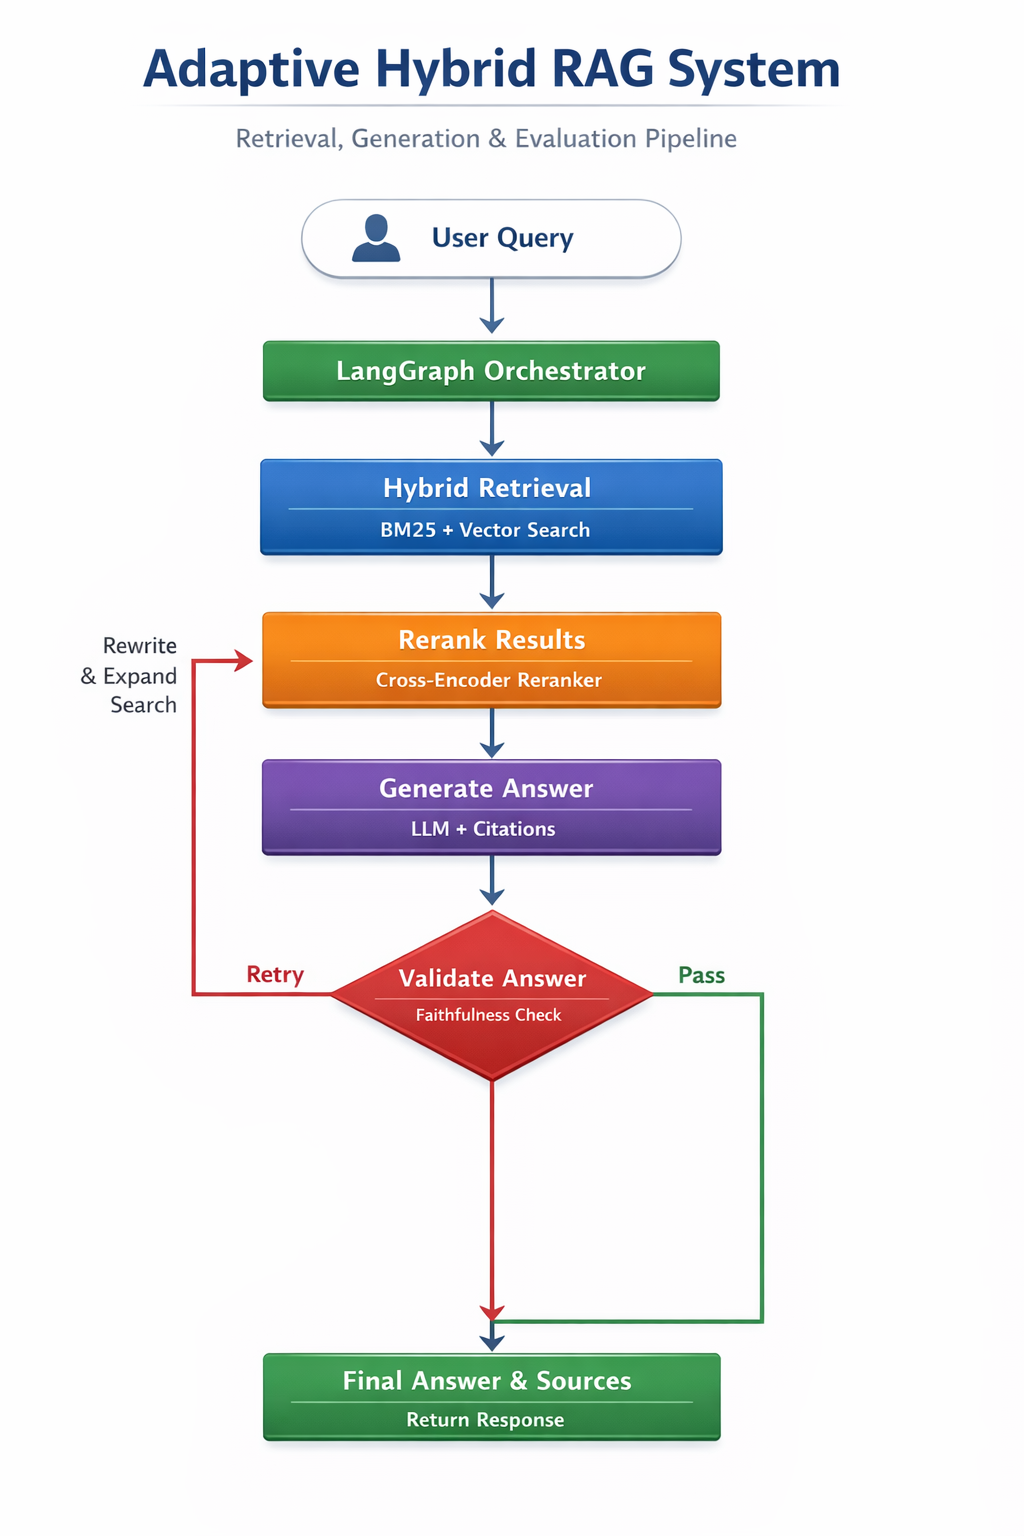
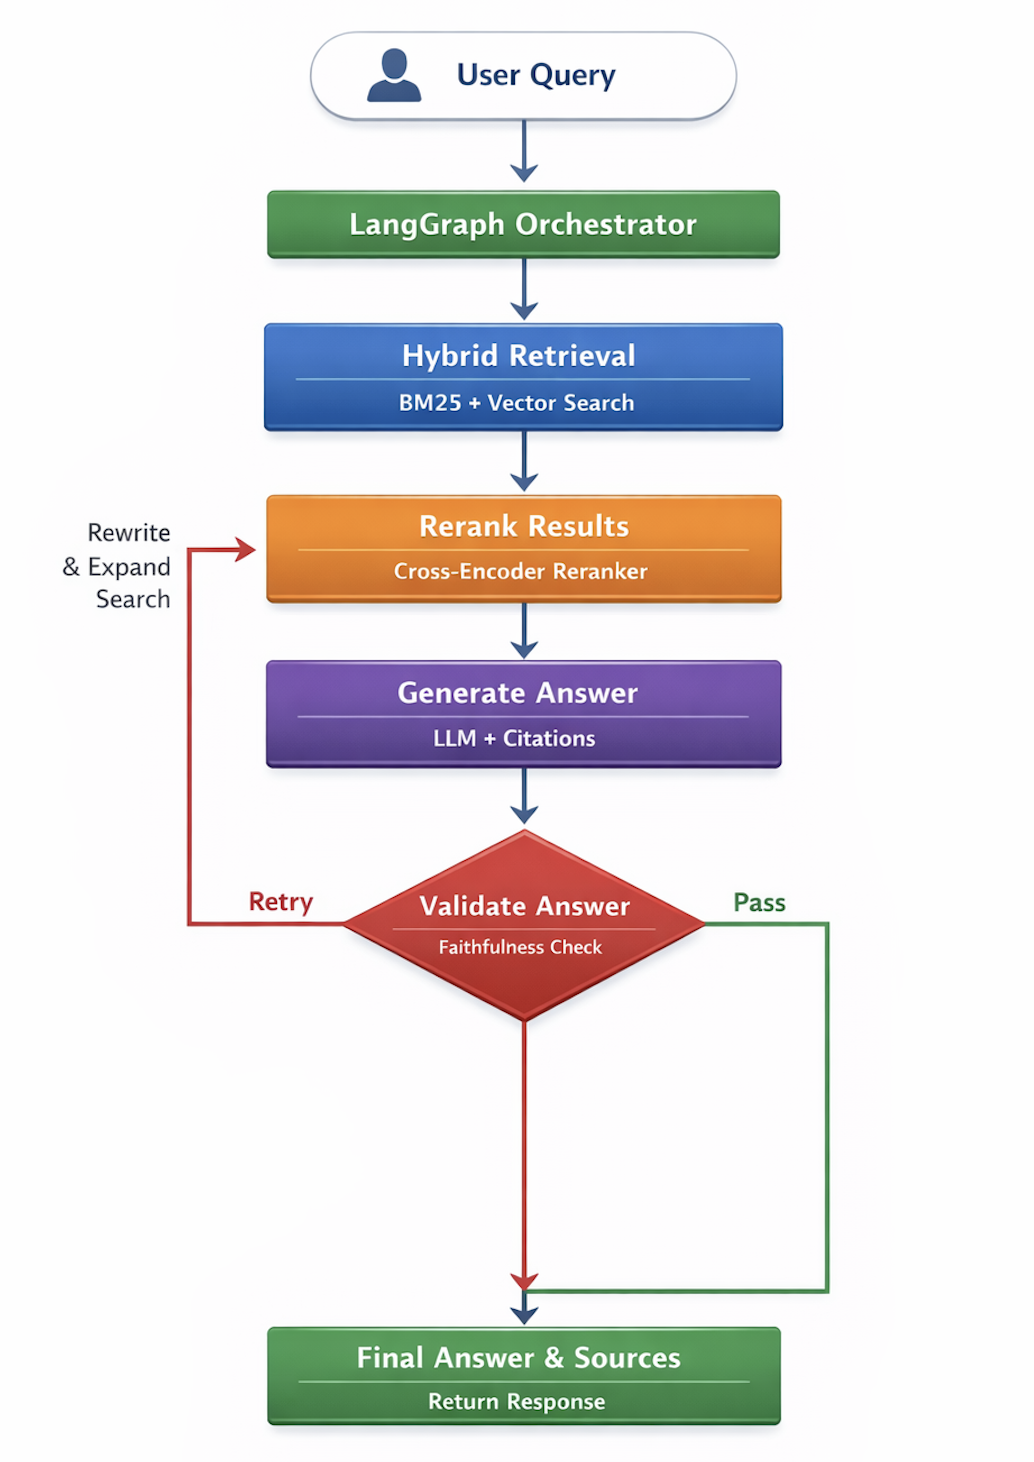
style changes in readme file

Changed region(s): [[0.0625, 0.0308, 0.8438, 0.985]]

diff --git a/README.md b/README.md
@@ -30,14 +30,16 @@
 *Advanced RAG pipelines, SLM benchmarking, and stateful AI agents.*
 
 ---
-#### Project🔬: Production ready RAG document search with Citation Enforcement
-<img src="Images/RAG_pipeline.png" align="left" width="300" alt="RAG Pipeline">
-Built an end-to-end Retrieval Augmented Generation (RAG) system that answers questions from PDF documents using hybrid retrieval (BM25 + vector search) and cross-encoder reranking.
-The pipeline generates grounded answers using Groq-hosted LLMs and automatically attaches source citations with document and page references.
+#### Project🔬: Adaptive Document Intelligence System using Hybrid RAG
+<img src="Images/rag_flowchart.png" align="left" width="300" alt="RAG Pipeline">
 
-![Status](https://img.shields.io/badge/status-active_development-orange)
+Built a production-grade document intelligence system using hybrid retrieval (BM25 + vector search), cross-encoder reranking, and LLM-based answer generation with citations. Implemented adaptive retry logic using LangGraph and integrated both embedding-based and RAGAS-based evaluation to ensure answer faithfulness and relevance.
 
-- [**End to End RAG Pipeline**](Projects/GenAI_projects/Production_RAG_document_search/README.md)
+- **Tech Stack:** ![LangChain](https://img.shields.io/badge/LangChain-LLM_Framework-2E8B57)
+![LangGraph](https://img.shields.io/badge/LangGraph-Orchestration-000000)
+![FastAPI](https://img.shields.io/badge/FastAPI-API-009688?logo=fastapi&logoColor=white)
+
+- [**End to End RAG Pipeline**](Projects/GenAI_projects/RAG_document_intelligence_system/README.md)
 
 <br clear="left"/>
 

diff --git a/Projects/GenAI_projects/RAG_document_intelligence_system/README.md b/Projects/GenAI_projects/RAG_document_intelligence_system/README.md
@@ -1,6 +1,6 @@
 # 🔍 Adaptive Hybrid RAG Document Intelligence System
 <img src="RAG_pipeline.png">
-<img src="rag_flowchart.png">
+
 A **production-grade Retrieval-Augmented Generation (RAG) system** designed for document question answering with **hybrid retrieval, reranking, evaluation, and adaptive retry mechanisms**.
 
 ---
@@ -104,7 +104,7 @@ Retry (if needed)
    ↓
 Final Answer + Citations
 ```
-
+<img src="rag_flowchart.png">
 ---
 
 ## ⚙ Tech Stack
